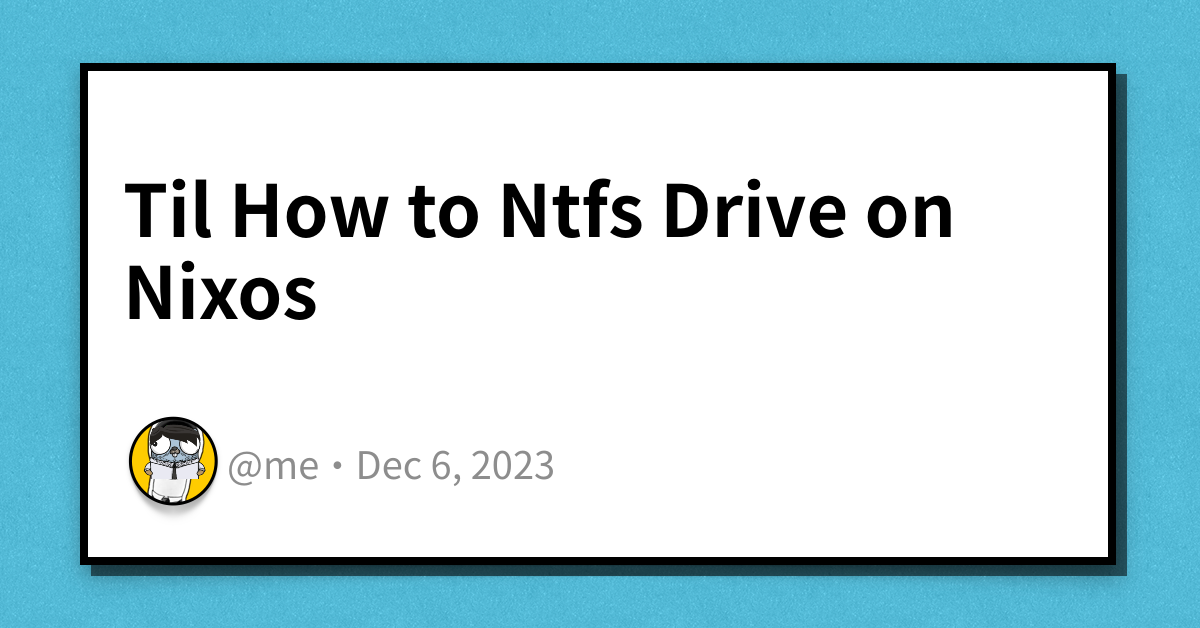
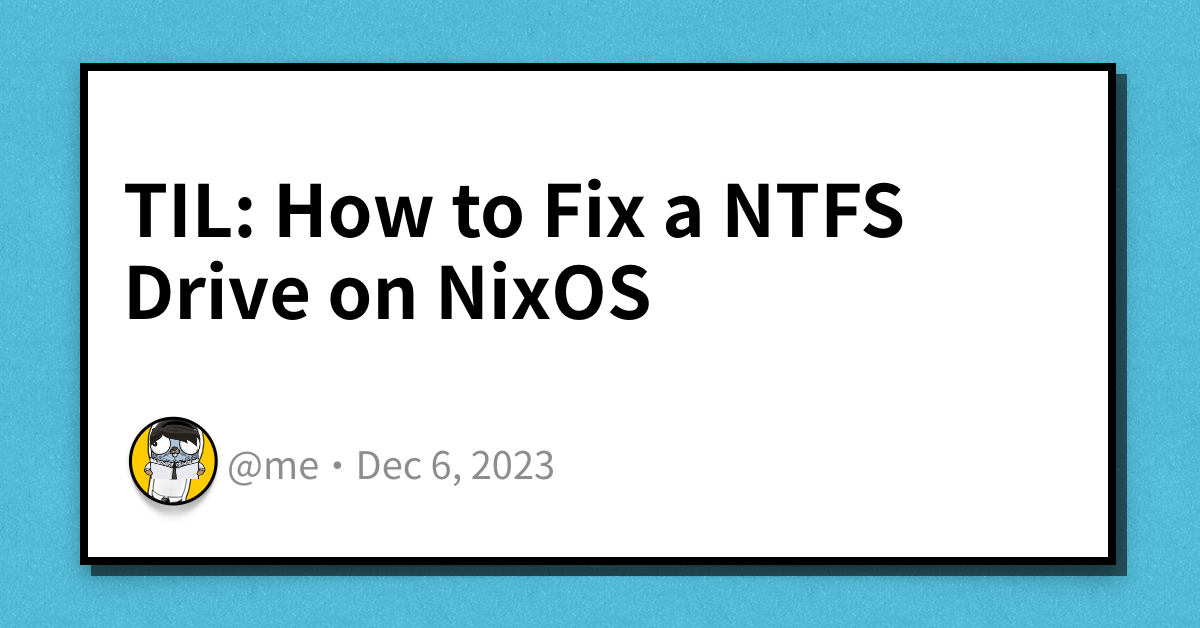
fix: typos in document

Changed region(s): [[0.0925, 0.2723, 0.8017, 0.5143]]

diff --git a/content/posts/2023-12-01-til-how-to-append-to-a-config-option-string-in-nix/index.md b/content/posts/2023-12-01-til-how-to-append-to-a-config-option-string-in-nix/index.md
@@ -1,7 +1,7 @@
 ---
 title: "TIL: How to Append to a Config Option String in Nix"
-date: 2023-11-23
-canonicalURL: https://haseebmajid.dev/posts/2023-11-23-til-how-to-append-to-a-config-option-string-in-nix
+date: 2023-12-01
+canonicalURL: https://haseebmajid.dev/posts/2023-12-01-til-how-to-append-to-a-config-option-string-in-nix
 tags:
   - nix
 series:

diff --git a/content/posts/2023-12-06-til-how-to-ntfs-drive-on-nixos/index.md b/content/posts/2023-12-06-til-how-to-ntfs-drive-on-nixos/index.md
@@ -1,5 +1,5 @@
 ---
-title: "TIL: How to NTFS Drive on NixOS"
+title: "TIL: How to Fix a NTFS Drive on NixOS"
 date: 2023-12-06
 canonicalURL: https://haseebmajid.dev/posts/2023-12-06-til-how-to-ntfs-drive-on-nixos
 tags:
